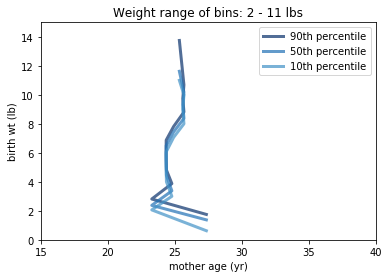
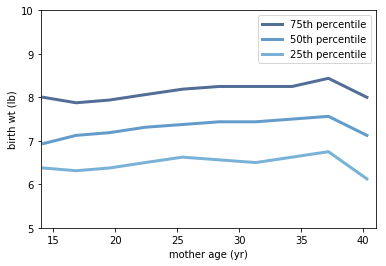
Ch9 Ex2 & fixed Ch7

Changed region(s): [[0.0, 0.0, 0.9948, 0.9925]]

diff --git a/07-statistics.md b/07-statistics.md
@@ -254,25 +254,23 @@ A hexbin plot doesn't reveal any patterns.
 
 Now, plot percentile of birth weight vs. mother's age.
 ```Python
-# generate groupings by birth weights
-bins = np.arange(2,12,1)
-indices = np.digitize(live.totalwgt_lb, bins)
-wt_groups = live.groupby(indices)
+# generate groupings by mother's age
+bins = np.arange(15, 40, 3)
+indices = np.digitize(live.agepreg, bins)
+age_groups = live.groupby(indices)
 
 # for each group, compute average mother's age and cdf of weights:
-mean_ages = [group.agepreg.mean() for i, group in wt_groups]
-wt_cdfs = [thinkstats2.Cdf(group.totalwgt_lb) for i, group in wt_groups]
+mean_ages = [group.agepreg.mean() for i, group in age_groups]
+wt_cdfs = [thinkstats2.Cdf(group.totalwgt_lb) for i, group in age_groups]
 
 # create percentiles & plot them
-p_tiles = [90, 50, 10]
+p_tiles = [75, 50, 25]
 for p in p_tiles:
     wt_ptiles = [cdf.Percentile(p) for cdf in wt_cdfs]
     thinkplot.Plot(mean_ages, wt_ptiles, label='%dth percentile' % p)
 
-thinkplot.Config(xlabel='mother age (yr)',
-                ylabel='birth wt (lb)',
-                axis=[15,40,0,15],
-                title='Weight range of bins: %d - %d lbs' %(bins[0], bins[len(bins)-1]))
+thinkplot.Config(xlabel='mother age (yr)', ylabel='birth wt (lb)',
+                axis=[14,41,5,10])
 ```
 ![Scatter Plot](7-1_Fig2.png)
 
@@ -285,7 +283,7 @@ These variables are not very correlated:
 
 1. The scatter plot shows a roughly horizontal line / relationship.
 2. The correlation coefficients are low.
-3. The percentile plot is nearly vertical for non-extreme  weight values.
+3. The percentile plots do show a slight upward trend until age 39, and then the birth weight drops off sharply for mothers over the age of 40. There are fewer data in the tails, though.
 
 ---
 
@@ -398,6 +396,7 @@ The skew is actually reduced in our higher-upper-bound sample. While the mean is
 ### Q10. [Think Stats Chapter 8 Exercise 3](statistics/8-3-scoring.md) (scoring)
 
 **The Problem**
+
 In games like hockey and soccer, the time between goals is roughly exponential. So you could estimate a team’s goal-scoring rate by observing the number of goals they score in a game. This estimation process is a little different from sampling the time between goals, so let’s see how it works.
 
 Write a function that takes a goal-scoring rate, lam, in goals per game, and simulates a game by generating the time between goals until the total time exceeds 1 game, then returns the number of goals scored.
@@ -480,6 +479,57 @@ As lambda get bigger, standard error (RMSE) also increases. Mean error stays con
 
 ---
 ### Q11. [Think Stats Chapter 9 Exercise 2](statistics/9-2-resampling.md) (resampling)
+
+**The Problem**
+In Section 9.3, we simulated the null hypothesis by permutation; that is, we treated the observed values as if they represented the entire population, and randomly assigned the members of the population to the two groups.
+
+An alternative is to use the sample to estimate the distribution for the population, then draw a random sample from that distribution. This process is called resampling. There are several ways to implement resampling, but one of the simplest is to draw a sample with replacement from the observed values, as in Section 9.10.
+
+Write a class named DiffMeansResample that inherits from DiffMeansPermute and overrides RunModel to implement resampling, rather than permutation.
+
+Use this model to test the differences in pregnancy length and birth weight. How much does the model affect the results?
+
+**My Solution**
+
+```Python
+class DiffMeansResample(DiffMeansPermute):
+
+    def RunModel(self):
+        """Run the model of the null hypothesis.
+
+        returns: simulated data
+        """
+        #np.random.shuffle(self.pool)
+        data = np.random.choice(self.pool, self.n, replace=True), np.random.choice(self.pool, self.m, replace=True)
+        return data
+
+# Pregnancy Length
+preglen_data = firsts.prglngth.values, others.prglngth.values
+ht_resamp = DiffMeansResample(preglen_data)
+ht_perm = DiffMeansPermute(preglen_data)
+
+print(ht_resamp.PValue(), ht_perm.PValue())
+print(ht_resamp.MaxTestStat(), ht_perm.MaxTestStat())
+print(ht_resamp.actual)
+
+0.168 0.184
+0.194908247232 0.22251009844
+0.0780372667775
+
+# Birth weight
+data = firsts.totalwgt_lb.dropna().values, others.totalwgt_lb.dropna().values
+ht_resamp = DiffMeansResample(data)
+ht_perm = DiffMeansPermute(data)
+
+print(ht_resamp.PValue(), ht_perm.PValue())
+print(ht_resamp.MaxTestStat(), ht_perm.MaxTestStat())
+print(ht_resamp.actual)
+
+0.0 0.0
+0.0937366968957 0.100723279498
+0.124761184535
+```
+Resampling doesn't make much difference
 
 ---
 
